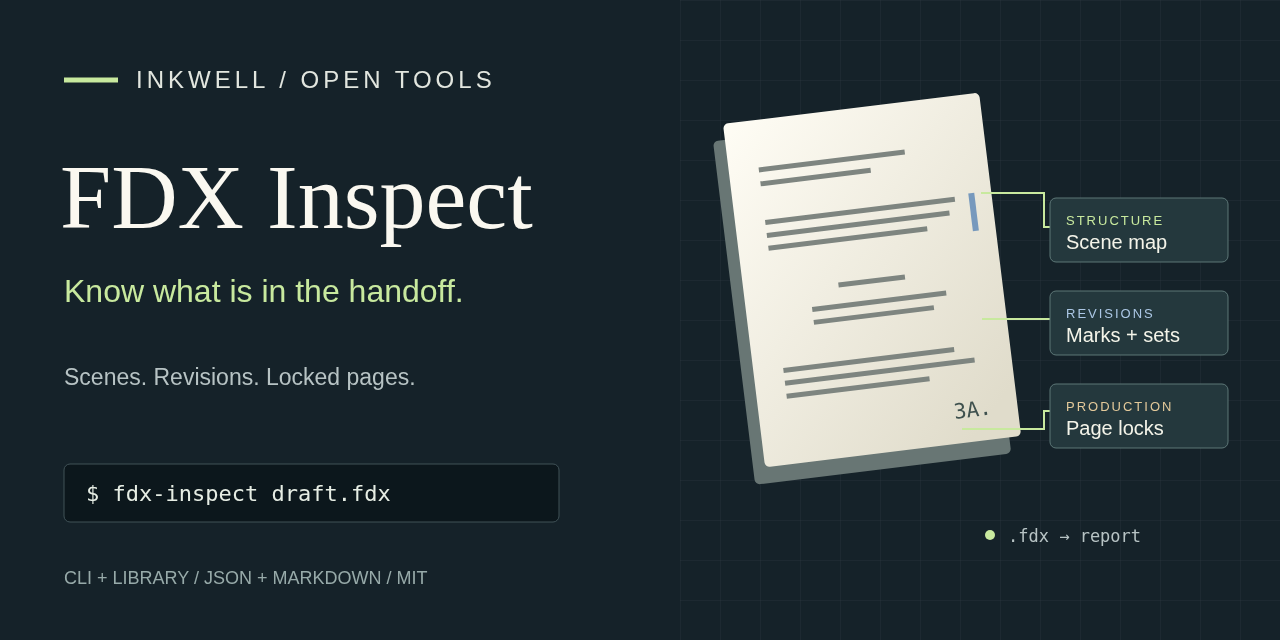
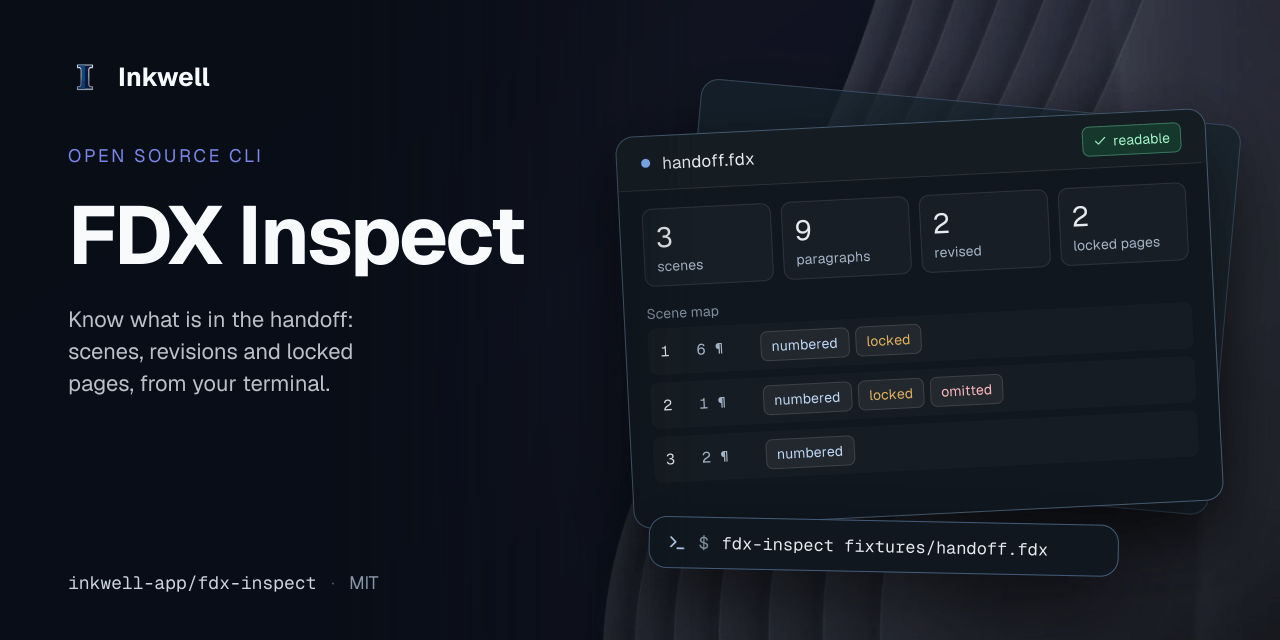
docs: replace the README hero with the new social preview (#10)

diff --git a/README.md b/README.md
@@ -1,4 +1,4 @@
-<img src="assets/cover.svg" alt="FDX Inspect — Know what is in the handoff. A screenplay becomes a map of scenes, revisions and locked pages." width="1280">
+<img src="assets/social-preview.png" alt="FDX Inspect: know what is in the handoff. The report for a sample FDX file shows 3 scenes, 9 paragraphs, 2 revised paragraphs and 2 locked-page markers, with a scene map." width="1280">
 
 # FDX Inspect
 
